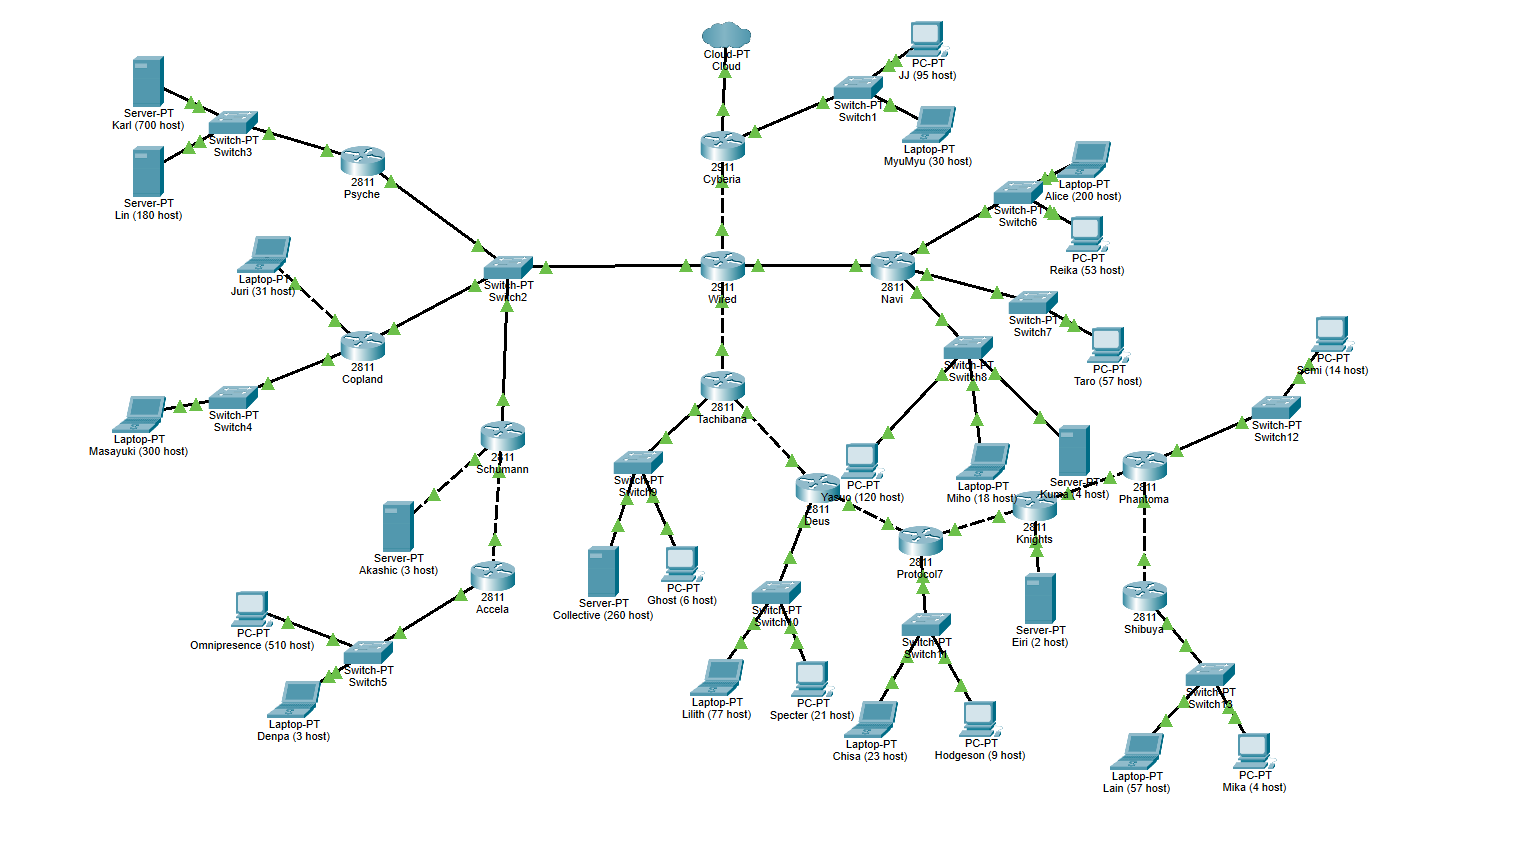
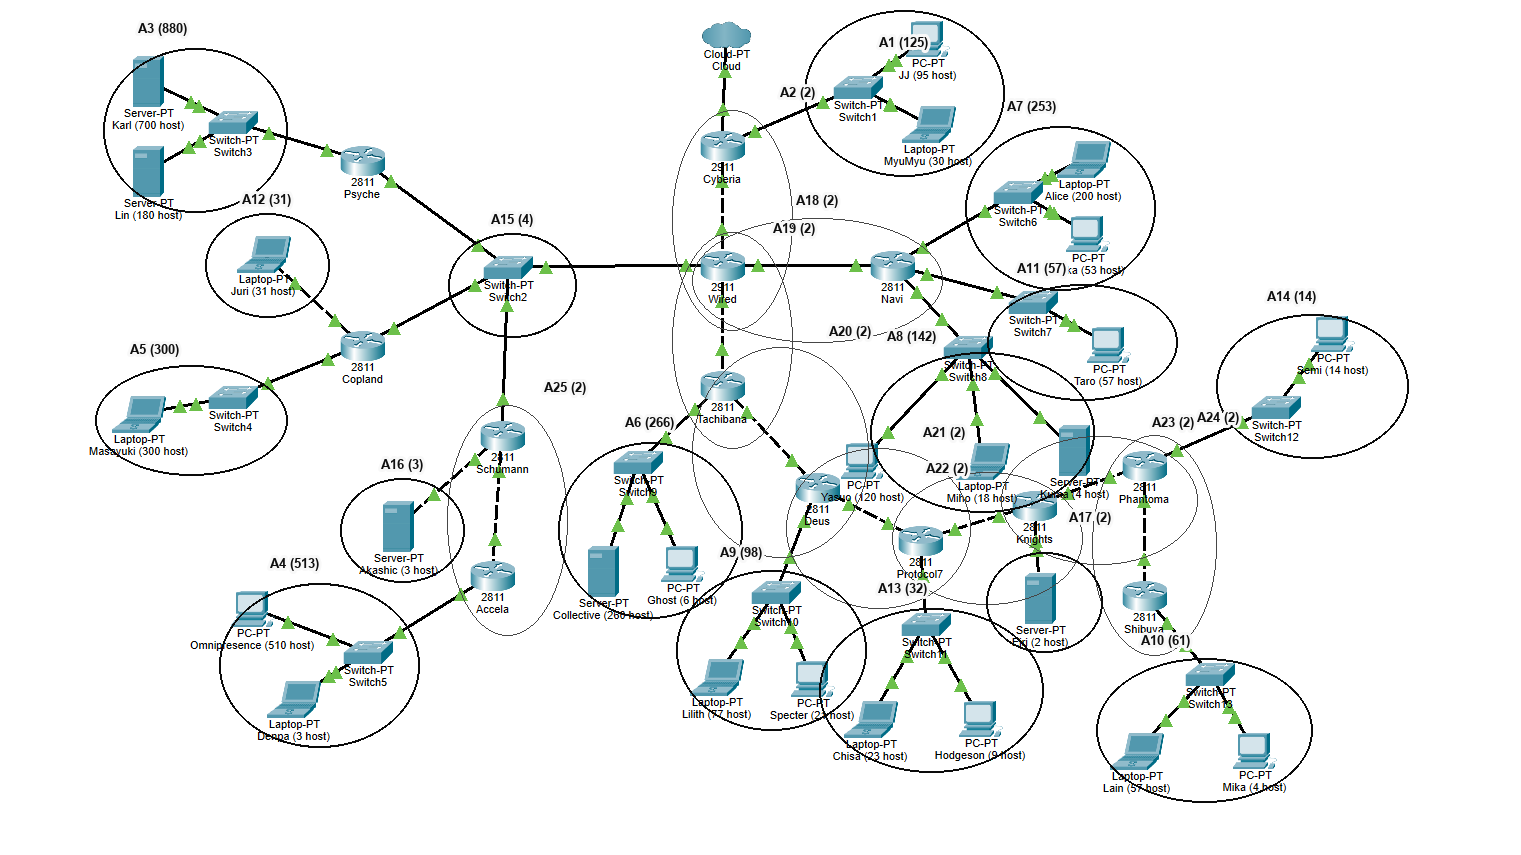
Topologi CPT dilingkari per subnet + diagram VLSM tree gaya baru

diff --git a/README.md b/README.md
@@ -69,7 +69,7 @@ Bagian ini mencakup pengerjaan topologi **GNS3** dengan metode *CIDR* (route sum
 
 Beberapa catatan implementasi yang dilakukan pada *cisco packet tracer*:
 
-1. Angka dalam tanda kurung pada nama *host* (contoh: `Karl (700 host)`, `Reika (53 host)`) menunjukkan **pembagian jumlah host dari soal ke masing-masing *end-point* dalam LAN-nya**, sehingga total label tiap LAN persis sama dengan kolom *Jumlah IP* pada Spreadsheet (contoh: A7 = `Alice (200 host)` + `Reika (53 host)` = 253). *Switch* diberi nama polos, sedangkan subnet *router-to-router* (A2, A15–A25) tidak memiliki *host* sehingga tidak diberi label.
+1. Pada gambar topologi, setiap *subnet* dibingkai *elips* dan diberi label `A## (N)` di atasnya, di mana `N` = jumlah *host* dari soal untuk *subnet* LAN, sedangkan *subnet* segmen *router-to-router* dan *backbone* (A2, A15, A18–A25) diberi jumlah *IP* (2 untuk *link*, 4 untuk A15) karena tidak memiliki *host*. Selanjutnya angka dalam tanda kurung pada nama *host* (contoh: `Karl (700 host)`, `Reika (53 host)`) menunjukkan **pembagian jumlah host dari soal ke masing-masing *end-point* dalam LAN-nya**, sehingga total label tiap LAN persis sama dengan kolom *Jumlah IP* pada Spreadsheet (contoh: A7 = `Alice (200 host)` + `Reika (53 host)` = 253). *Switch* diberi nama polos, sedangkan subnet *router-to-router* tidak memiliki *host* sehingga tidak diberi label angka.
 
 2. *Router* menggunakan model campuran: **2911** untuk Cyberia & Wired, dan **2811** untuk router lainnya, sesuai dengan gambar topologi yang diberikan. *Interface tambahan* pada 2811 didapat melalui modul `NM-1FE-TX` / `NM-2FE2W`.
 
